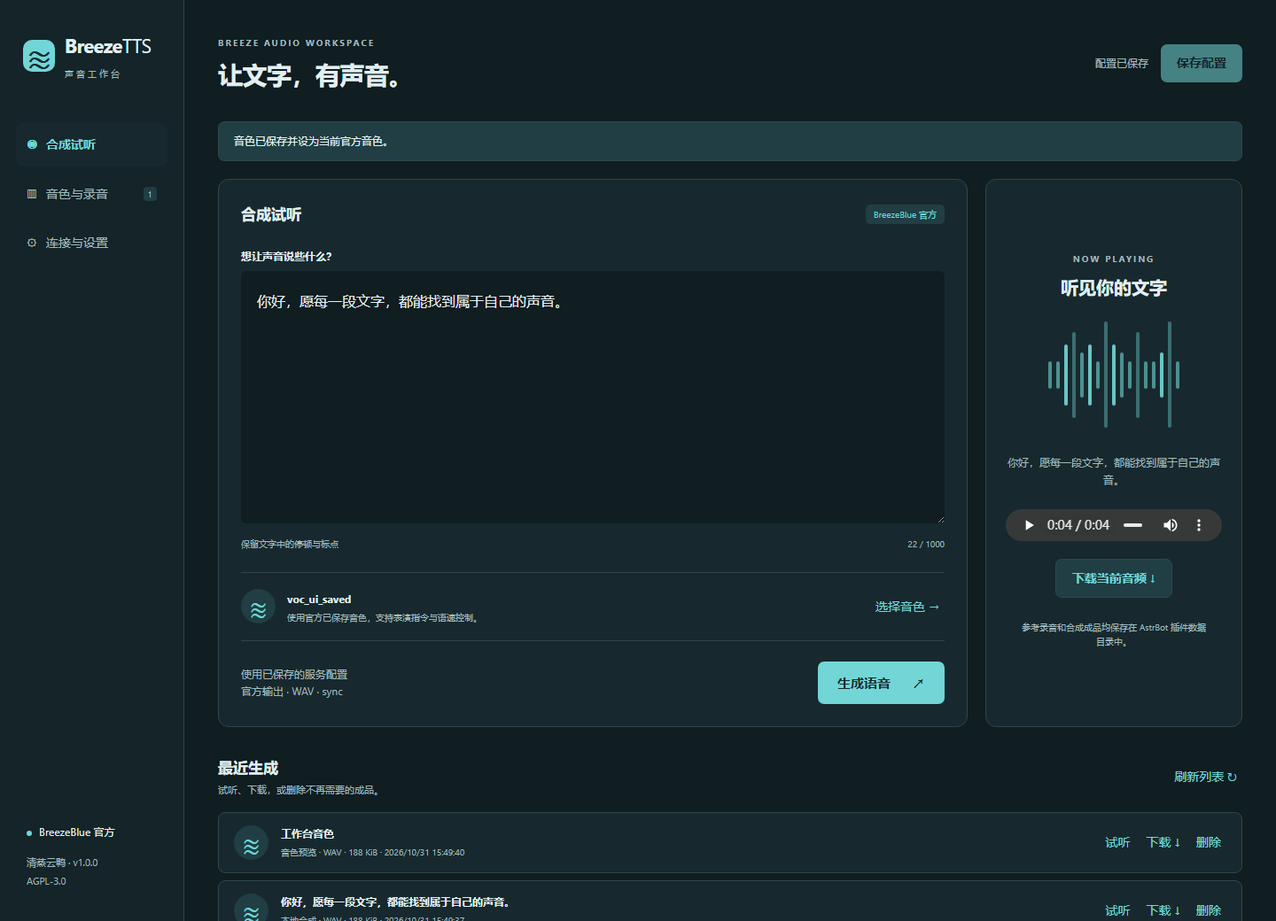
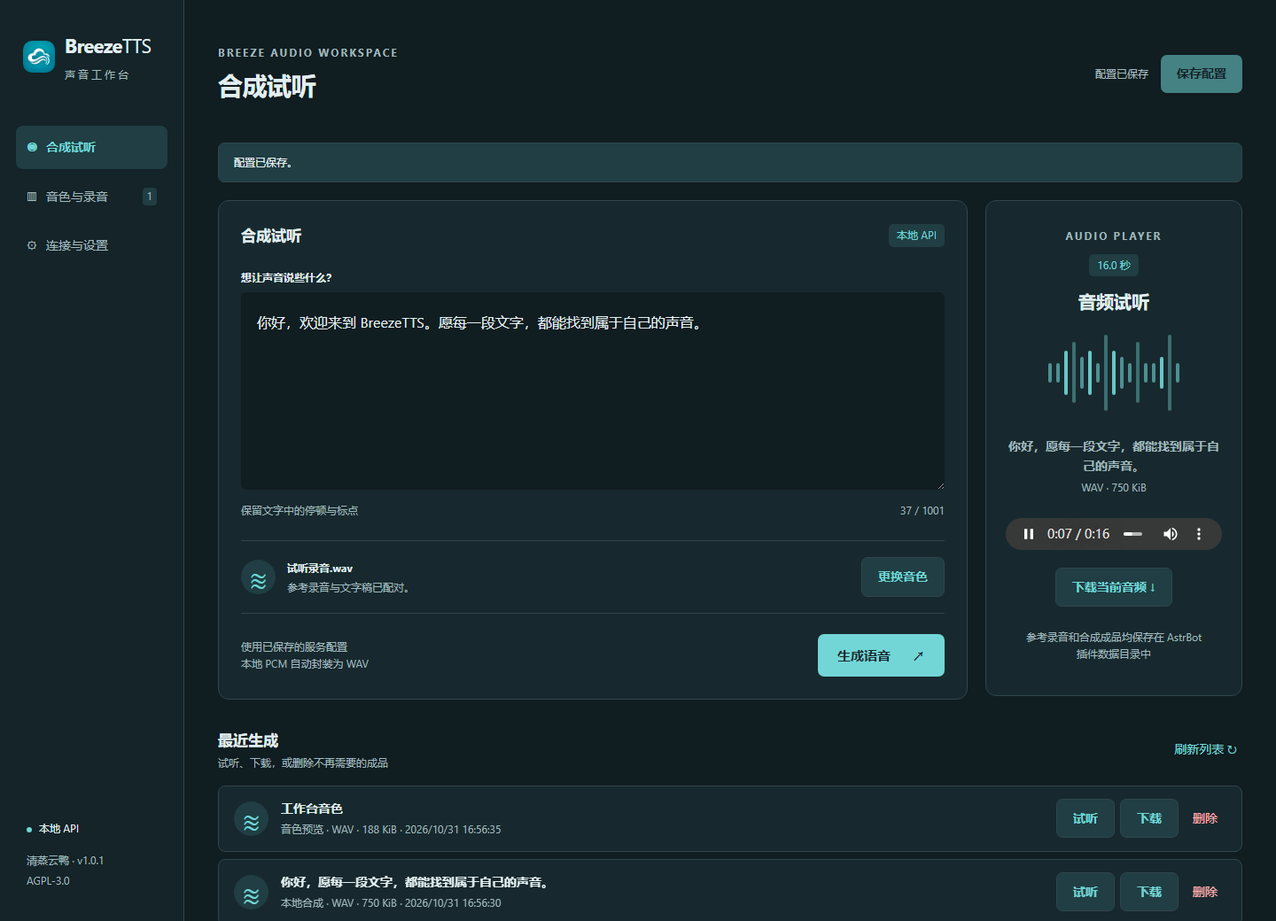
docs: simplify setup and refresh workbench usage guides

diff --git a/README.md b/README.md
@@ -1,6 +1,8 @@
+<img src="logo.png" alt="BreezeTTS" width="88" height="88">
+
 # BreezeTTS for AstrBot
 
-支持 **BreezeBlue 官方 API** 和 **本地 Breeze TTS API** 的 AstrBot 插件。内置独立的音频工作台，可上传参考录音、编辑文字稿、管理音色、生成试听和下载成品。
+为 AstrBot 提供 BreezeBlue 官方与本地语音合成，配备音色管理和音频试听工作台
 
 作者：清蒸云鸭
 
@@ -8,124 +10,106 @@
 
 ![BreezeTTS 工作台](docs/images/studio-desktop.png)
 
-## 能力
+## 插件功能
 
-| 功能 | 本地 API | BreezeBlue 官方 API |
-| --- | --- | --- |
-| 鉴权 | 无鉴权 / Bearer API Key | Bearer API Key |
-| 语音合成 | 表单 / multipart，PCM 自动封装 WAV | JSON，支持同步、流式接收和后台任务 |
-| 音色复刻 | 参考录音 + 准确文字稿 | 查询个人 / 公共音色，参考录音克隆 |
-| 声音设计 | 描述声音，直接生成语音 | 生成音色预览，试听后保存到账号 |
-| 声音控制 | instruction、cfg_scale、seed | 表演指令、指导强度、语速、音量、语言、相似度增强 |
-| 音频文件 | 上传、试听、下载、删除 | 上传参考音频，下载预览及合成成品 |
+- **本地语音合成**：参考音色复刻、文字声音设计、普通朗读，支持 CFG、随机种子和语气指令
+- **官方语音合成**：选择账号或公共音色，调整模型、语言、语速、音量和表演指令
+- **官方音色创建**：上传录音克隆声音，或通过文字设计音色；生成预览、试听，再保存到账号
+- **音频管理**：上传参考录音、编辑文字稿、选择当前音色，试听、下载和删除音频
+- **聊天语音**：通过聊天命令、LLM 语音工具或自动回复发送语音消息
+- **PC 与手机工作台**：自适应布局、明暗主题、胶囊开关和播放器状态提示
 
-工作台支持明暗主题和手机布局，通过 AstrBot 的受限 iframe bridge 通信，无需额外端口、外部字体、CDN 或前端构建步骤。文件操作使用 Dashboard 身份鉴权。
+## 安装与打开
 
-## 安装
-
-要求 **AstrBot >= 4.29.3**、Python >= 3.10。插件使用该版本的 `astrbot.api.web` 和可视化视图接口，不支持缺少这些接口的旧版本。
-
-在 AstrBot WebUI 的插件管理中，选择从 GitHub 仓库安装：
+使用 AstrBot 4.29.3 或更新版本，在插件管理中通过仓库地址安装：
 
 ```text
 https://github.com/WhiteCloudOL/astrbot_plugin_breezetts
 ```
 
-也可以将仓库克隆到 `data/plugins/astrbot_plugin_breezetts` 后重载插件。AstrBot 会安装 `requirements.txt` 中的 `aiohttp` 和 `soundfile`。本插件不需要安装模型、PyTorch 或另一个 TTS 服务进程。
+安装后打开 **插件 → BreezeTTS → BreezeTTS 工作台**。工作台包含“合成试听”“音色与录音”“连接与设置”三个入口
 
-打开 **插件 → BreezeTTS 详情 → BreezeTTS 工作台**。原有的 AstrBot 标准“插件配置”入口仍可编辑相同设置；新增的工作台把文件和音色操作集中在一个入口中。
+## 配置本地 API
 
-## 配置本地服务
+1. 在“连接与设置”选择 **本地 API**
+2. 填写服务地址，例如 `http://127.0.0.1:7860` 或 `http://127.0.0.1:7861`
+3. 按服务设置填写 API Key：有值时自动携带 Bearer 鉴权，留空时使用直接连接
+4. 点击 **保存并检查连接**，确认连接成功
+5. 选择合成模式并配置声音
 
-1. 打开“连接与设置”，当前服务选“本地 API”。
-2. 无鉴权部署通常填写 `http://127.0.0.1:7860`，API Key 留空。鉴权部署通常填写 `http://127.0.0.1:7861`，填写服务端的密钥本身，不加 `Bearer `。
-3. 点击“保存并检查连接”。检查会调用 `/health`，并携带同一份可选鉴权头。
-4. 使用音色复刻时，前往“音色与录音”上传参考录音，填写与录音完全一致的文字稿，然后点击“设为本地音色”。
-5. 返回“合成试听”，输入文字并生成。也可在设置中选“声音设计”，填写声音描述；“普通朗读”允许不传参考录音和描述。
+| 合成模式 | 配置方法 |
+| --- | --- |
+| 参考音色复刻 | 在“音色与录音”上传录音、填写完整准确的文字稿，再点击“设为当前音色” |
+| 声音设计 | 在连接设置中填写声音描述，例如“声音清晰、语气温柔的年轻女性” |
+| 普通朗读 | 选择模式后即可输入文字合成 |
 
-支持根地址、`/v1` 或完整 `/v1/audio/speech` 地址，并保留反向代理路径前缀。Docker 中的 `127.0.0.1` 指向容器自身，请使用容器能够访问的主机地址。
+CFG 建议从 `1` 开始，使用声音或语气描述时可尝试 `4`。随机种子用于复现声音效果
 
-本地接口的 `ref_audio`、`ref_text` 成对发送；没有参考录音的模式不会误传文字稿。普通朗读和纯音色复刻建议 CFG=1，带指令可尝试 CFG=4。本地接口没有独立语速倍率，可通过声音描述调整朗读节奏。
+服务地址支持根地址、`/v1` 或完整 `/v1/audio/speech` 路径。容器部署时，填写容器能够访问的主机地址。本地返回的 PCM 会自动封装为可播放和下载的 WAV
 
-返回的 `audio/pcm` 按 `X-Sample-Rate` 和 `X-Sample-Format` 校验，在完整接收后封装为 16-bit、单声道 WAV，支持跨采样边界的网络分块。
+### 管理参考音色
 
-## 配置官方服务
+本地模式的音色页集中管理参考录音和文字稿：
 
-1. 当前服务选择“BreezeBlue 官方 API”，默认地址为 `https://api.breeze.blue/v1`。
-2. 填写官方开发者 API Key，点击“保存并检查连接”。检查只读取模型列表，不发起付费合成。
-3. 在“音色与录音”查询音色，可筛选全部、个人或公共目录，支持搜索和继续加载分页。点击“使用此音色”，或在设置中直接填写 `voice_id`。
-4. 模型 ID 留空由官方选择，也可从连接检查得到的模型列表中选择。语言可留空自动识别，或填写 `zh`、`en`、`ja` 等代码。
-5. 根据需要调整语速、音量、表演指令和交付方式，再到合成页试听。
+1. 点击 **上传录音**，选择 WAV、MP3、FLAC 或 OGG 文件
+2. 在弹出的编辑框中填写录音名称及完整文字稿
+3. 点击 **设为当前音色**，完成选择
+4. 使用卡片上的 **试听、下载、编辑信息** 管理录音
 
-官方账号默认单次文本上限为 1000 字，获准提高额度的账号可在插件设置中提高至 2000 字。插件不会自动截断、拆分或重试付费请求。
+上传上限为 20 MiB、时长 0.1–120 秒，最多双声道；录音会统一转换为单声道 WAV
 
-“流式接收”会接收官方流式音频，在完整落盘后播放和发送；不代表边生成边播放。后台交付会提交任务、校验任务 ID，并在同一服务地址下轮询和下载音频。不会跟随上游返回的任意下载 URL，也不会跨重定向发送密钥。
+## 配置 BreezeBlue 官方 API
 
-默认输出 WAV，另支持官方文档列出的 MP3、FLAC、PCM、AAC、Opus 及采样率 / 码率变体。PCM 自动转为 WAV。浏览器或聊天平台不支持某些编码时，可选择 WAV / MP3 或下载原文件播放。
+1. 在“连接与设置”选择 **BreezeBlue 官方 API**
+2. 服务地址填写 `https://api.breeze.blue/v1`，输入官方开发者 API Key
+3. 点击 **保存并检查连接**，获取可用模型列表
+4. 打开“音色与录音”，查询个人或公共音色，点击 **使用此音色**；也可在设置中填写已有的音色 ID
+5. 按需选择模型、语言、输出格式及声音参数
 
-### 克隆和设计官方音色
+| 参数 | 说明 |
+| --- | --- |
+| 模型 ID | 留空由官方自动选择，也可从模型列表选择 |
+| 语言代码 | 留空自动识别，或填写 `zh`、`en`、`ja` 等代码 |
+| 表演指令 | 描述朗读情绪、语气与节奏 |
+| 语速 / 音量 | 调整语速倍率和音量倍率 |
+| 交付方式 | 同步、流式接收、后台任务；音频完整接收后进入播放器 |
+| 输出格式 | WAV、MP3、FLAC、PCM、AAC、Opus 及官方采样率 / 码率变体；PCM 自动封装为 WAV |
 
-在音色页底部选择“参考录音克隆”或“文字设计音色”，填写名称和语言。克隆使用已上传的录音，转换后须至少 3 秒且不超过 5 MB；设计需要 3–500 字的声音描述和试听文字。
+### 创建官方音色
 
-点击“生成音色预览”后，可以先试听，再明确点击“保存到官方账号”。保存成功后自动填入官方音色 ID。需要官方验证的克隆会显示预览 ID，必须先到官方控制台完成验证，再查询账号音色。生成和保存会调用官方服务，按官方计费规则消耗额度。
+官方模式的音色页集中展示账号目录和音色创建表单：
+
+- **参考录音克隆**：选择已有录音或点击“上传克隆录音”，填写名称和语言；录音至少 3 秒，转换后最大 5 MB
+- **文字设计音色**：填写音色名称、语言、声音描述及试听文字
+
+点击 **生成音色预览** 后先试听，再点击 **保存到官方账号**。保存成功后即设为当前官方音色。需要验证的音色会显示预览 ID，可前往官方控制台完成验证
+
+## 合成、试听与下载
+
+在“合成试听”输入文字，点击 **生成语音**。完成后右侧播放器显示当前音频及播放时长；手机视图中播放器位于输入区下方
+
+“最近生成”列出已保存的成品和预览，支持试听、下载和删除。重新打开工作台时会载入最近一条成品，点击播放器即可播放。切换音色时，点击输入区中的 **更换音色**
 
 ## 聊天中使用
 
 ```text
-/breezetts 你好，欢迎使用 BreezeTTS。
-/btts Hello world, keep the spaces.
-/语音合成 今天也要开心。
+/breezetts 你好，欢迎使用 BreezeTTS
+/btts Hello world
+/语音合成 今天也要开心
 ```
 
-命令沿用 AstrBot 的唤醒前缀和命令权限管理；插件默认允许使用命令的会话调用当前已配置的服务。
+在“聊天与运行”中可通过胶囊开关调整：
 
-`breeze_tts` LLM 工具可在用户要求时发送语音，开关位于“聊天与运行”。同一事件通过工具发送语音后，不会再通过自动语音钩子重复合成。
+- **自动语音回复**：将已完成的 LLM 文字回复转换为语音；搭配关闭聊天流式输出使用
+- **保留回复文字**：语音与文字一起展示
+- **允许 LLM 语音工具**：让模型在用户要求时调用 `breeze_tts` 发送语音
 
-“自动将 LLM 回复转为语音”默认关闭，仅处理已完成的非流式文字回复；请关闭 AstrBot 自带 TTS 和聊天流式输出后再开启。超长回复保持原文，合成失败保留原文；关闭“保留自动回复文字”也只会在合成成功后移除文字组件，其他组件保留。
+语音发送使用 AstrBot 的平台适配器，唤醒前缀与命令权限沿用 AstrBot 设置
 
-语音通过 AstrBot 标准 `Record` 组件发送，最终的文件上传、格式转换和消息呈现由所用平台适配器负责。远程协议端需要具有相应的文件上传能力；本项目没有对所有实际平台账号逐一投递测试。
+## 常用设置
 
-## 文件与密钥
+API Key 输入留空会保留已保存的密钥；输入新值后保存即可替换。点击输入框右侧的 **清空**，再保存配置即可移除密钥
 
-- 音频与索引保存在 `data/plugin_data/astrbot_plugin_breezetts/`，不写入插件源码目录。
-- 参考录音支持 WAV、MP3、FLAC、OGG，原始上传上限 20 MiB、时长 0.1–120 秒、最多双声道；解码后统一转为单声道 PCM16 WAV。下载的是规范化后的 WAV。
-- 最多保留 100 条参考录音，手动管理。成品与预览默认保留 50 条，可调整为 1–200；新成品生成后清理最旧文件。正在使用的默认参考录音不能直接删除。
-- 最多同时处理 2 个请求；同一本地服务的推理串行执行。最多接受 8 个合成请求 / WebUI 任务，防止无限排队。默认总超时为 600 秒。
-- WebUI 合成采用任务提交与轮询，避免长合成占用单次 bridge 请求。重载会取消正在运行的插件任务；已生成文件仍可从列表中找到。官方后台任务可能继续运行，超时后请先检查官方控制台再重新提交。
-- 密钥由 AstrBot 配置保存，工作台只返回“是否已配置”。密钥输入留空保留原值，替换时输入新值；删除必须勾选“清除”。AstrBot 标准配置本身仍由宿主管理，应妥善保护配置目录。
-- 请求失败不回显上游正文、密钥或完整异常 URL。不会自动重试合成、克隆或保存，避免重复计费。
+“单次文字上限”“合成总超时”和“成品保留数量”可在连接设置中调整。官方账号常用单次上限为 1000 字，支持更高额度的账号可将插件上限调整至 2000 字
 
-## 开发与测试
-
-```powershell
-uv venv --python 3.12
-uv pip install -r requirements-dev.txt
-uv run ruff format .
-uv run ruff check .
-uv run pytest -q
-```
-
-常规测试使用真实 HTTP 测试服务，覆盖本地可选鉴权、multipart 字段、PCM 封装、官方同步 / 流式 / 后台任务、音色分页、克隆与设计、超时取消、密钥脱敏和文件持久化。
-
-v1.0.0 在 Windows / Python 3.12 上通过 65 项测试，包含真实 AstrBot 4.29.3 加载、Chromium 工作台交互，以及启用鉴权的本地模型合成；Python 3.10 另通过 60 项协议与存储测试。官方服务已按公开文档通过协议测试，尚未使用真实官方账号密钥进行付费调用。Linux 由仓库 CI 持续验证。
-
-验证真实 AstrBot loader、重载、命令组件和鉴权 Web API：
-
-```powershell
-$env:PYTHONPATH = 'C:\path\to\AstrBot'
-# Use an environment containing AstrBot's dependencies.
-python -m pytest tests/test_host.py -q
-```
-
-浏览器交互测试另需 `playwright`、`uvicorn`、`httpx`、可用 Chromium 和 AstrBot 环境：
-
-```powershell
-$env:BREEZE_BROWSER_TEST = '1'
-python -m pytest tests/test_host.py -q
-```
-
-可选真实本地模型测试由 `tests/test_live.py` 提供，设置 `BREEZE_LIVE_LOCAL_URL` 与 `BREEZE_LIVE_LOCAL_KEY` 或 `BREEZE_LIVE_LOCAL_KEY_FILE`。可设置 `BREEZE_LIVE_REFERENCE` 与 `BREEZE_LIVE_REFERENCE_TEXT` 测试参考音色。凭据和音频只存于环境变量 / 临时测试目录，不进入仓库。
-
-详见[中文使用说明](docs/zh/usage.md)、[English guide](docs/en/usage.md) 和[更新记录](CHANGELOG.md)。
-
-接口依据：[AstrBot 插件视图指南](https://docs.astrbot.app/dev/star/guides/plugin-pages.html)、[BreezeBlue 官方接口](https://docs.breezeblue.ai/api-reference/introduction)、[官方鉴权](https://docs.breezeblue.ai/authentication)、[Breeze TTS 开源服务](https://github.com/breezeblue-ai/breeze-tts)。
+音频保存在 `data/plugin_data/astrbot_plugin_breezetts/`。参考录音最多 100 条；成品与预览默认保留最近 50 条，可调整为 1–200 条

diff --git a/docs/en/usage.md b/docs/en/usage.md
@@ -1,49 +1,35 @@
 # BreezeTTS workbench
 
-Author: 清蒸云鸭
+Open BreezeTTS from the AstrBot plugin details page. The interface is in Simplified Chinese and follows AstrBot's light or dark theme
 
-License: AGPL-3.0
-
-Requires AstrBot 4.29.3+ and Python 3.10+. Install the repository, reload the plugin, then open **Plugins → BreezeTTS details → BreezeTTS workbench**. The interface is currently in Simplified Chinese.
-
-| Workbench entry | Purpose |
+| Entry | Purpose |
 | --- | --- |
-| 合成试听 | Generate speech, play audio, download outputs, manage history |
-| 音色与录音 | Upload reference recordings, edit transcripts, select voices, create official previews |
-| 连接与设置 | Configure connections, credentials, generation parameters, and chat behavior |
+| 合成试听 | Enter text, select a voice, synthesize, play, and download audio |
+| 音色与录音 | Manage voices for the currently selected service |
+| 连接与设置 | Set the service URL and key, voice parameters, and chat behavior |
 
-The existing AstrBot plugin configuration entry remains available and edits the same settings. No existing AstrBot navigation has been renamed or moved.
-
-![Workbench](../images/studio-desktop.png)
+The standard AstrBot configuration entry and the workbench share the same settings. Voice management displays local references or official account voices according to the selected service
 
 ## Local API
 
-Use the service root, such as `http://127.0.0.1:7860` without authentication or `http://127.0.0.1:7861` with authentication. Enter only the key itself. A configured key is sent as `Authorization: Bearer <key>`, including on health checks; an empty key sends no Authorization header.
+Set the local service root, such as `http://127.0.0.1:7860` or `http://127.0.0.1:7861`. A populated API Key sends Bearer authentication; an empty key uses direct access
 
-For voice cloning, upload a recording, save its exact transcript, and select it as the default local voice. Supported uploads are WAV, MP3, FLAC, and OGG, up to 20 MiB and 120 seconds. Files are decoded and normalized to mono PCM16 WAV. Voice design uses an instruction instead of a reference; plain mode permits neither.
+Upload a recording, enter its exact transcript, and select it as the current voice. Each card has a prominent selection button, grouped playback/download/edit controls, and a separate delete action. Voice design uses the description configured in settings; plain mode provides ordinary narration
 
-Local multipart synthesis uses `text`, `instruction`, `cfg_scale`, `seed`, and the paired `ref_audio` / `ref_text` fields. The raw PCM response is validated and wrapped in a playable WAV container.
+![Local voice library](../images/voices-local-desktop.png)
 
-## BreezeBlue official API
+## Official API
 
-Use `https://api.breeze.blue/v1`, enter your developer key, and save the connection. Query the voice catalog and choose a voice, or enter an existing voice ID. Public catalog filtering uses `voice_type=default`.
+Select BreezeBlue official API and enter `https://api.breeze.blue/v1` and your developer key. Save and check the connection, then browse personal or public voices and choose one
 
-Supported delivery modes are synchronous, streamed reception, and background jobs. Streamed audio is played after the complete response is saved. Background jobs are polled and downloaded only from controlled paths on the configured service; arbitrary upstream download URLs and redirects are not followed.
+Clone creation has its own reference-upload control. Enter a voice name and language, generate a preview, audition it, and save it to your account. Voice design accepts a voice description and preview script
 
-Clone previews require a normalized reference of at least 3 seconds and no more than 5 MB. Voice design requires a description and preview text. Audition the generated preview, then explicitly save it to the official account. Verification-required clones must be completed in the official console.
+## Controls and playback
 
-## Chat integration
+Clear buttons sit beside key inputs. Click Clear and save to remove a key; enter a new value and save to replace it. Blank key inputs retain existing saved credentials
 
-Use `/breezetts text to speak`, `/btts`, or `/语音合成`. AstrBot command permissions and wake prefixes apply. The `breeze_tts` LLM tool is enabled by default and can be disabled in settings.
+Boolean settings use accessible capsule switches. The player sits beside the composer on PC and below it on mobile, showing the audio name, duration, loading state, retry action, and download button. Reopening the workbench loads the most recent generated output
 
-Automatic speech is off by default. Enable it for completed non-streaming LLM replies; disable AstrBot's built-in TTS and streaming chat output to avoid duplicate or unsupported output. Failed or oversized synthesis retains the original text. A successful tool-generated voice prevents a second automatic voice for the same event.
+![Mobile workbench](../images/studio-mobile.png)
 
-Audio uses AstrBot's standard `Record` component. Delivery and codec conversion depend on the platform adapter; live delivery has not been tested on every platform.
-
-## Storage and credentials
-
-Persistent files live in `data/plugin_data/astrbot_plugin_breezetts/`. Up to 100 references are retained until manually removed. Generated outputs and previews share a configurable retention limit, defaulting to 50. Reload cancels plugin-owned tasks while preserving saved files.
-
-The workbench returns only credential-presence flags. Blank credential inputs preserve existing keys; explicit checkboxes clear them. Keys are stored by AstrBot's configuration system. HTTP errors do not expose upstream response bodies or credentials. Generation and save requests are never retried automatically.
-
-See the [README](../../README.md) for development tests, optional real-model checks, and upstream references.
+See the [README](../../README.md) for installation, configuration fields, and chat commands

diff --git a/docs/zh/usage.md b/docs/zh/usage.md
@@ -1,44 +1,41 @@
-# 工作台使用说明
+# BreezeTTS 工作台
 
-作者：清蒸云鸭
+在 AstrBot 插件详情中打开 BreezeTTS 工作台，使用顶部或侧边导航进入合成试听、音色管理和连接设置
 
-许可证：AGPL-3.0
-
-需要 AstrBot 4.29.3 或更新版本。安装后进入“插件 → BreezeTTS 详情 → BreezeTTS 工作台”。标准“插件配置”入口继续可用，两者保存同一份配置。
-
-| 入口 | 用途 |
+| 入口 | 配置与操作 |
 | --- | --- |
-| 合成试听 | 输入文字、生成语音、播放 / 下载成品、管理历史 |
-| 音色与录音 | 上传录音、编辑准确文字稿、选择本地音色、查询官方音色、创建克隆 / 设计预览 |
-| 连接与设置 | 切换本地 / 官方服务、配置密钥与声音参数、控制聊天行为 |
+| 合成试听 | 输入文字、查看当前音色、生成语音、播放和下载成品 |
+| 音色与录音 | 根据当前服务展示本地参考音色，或官方账号音色及创建表单 |
+| 连接与设置 | 选择服务、设置 API Key、调整声音参数和聊天行为 |
 
-没有替换或移动 AstrBot 原有导航。新增的工作台负责文件和音色操作，原有“插件配置”仍用于编辑普通设置。
+原有“插件配置”入口与工作台共享同一份设置。音色页按当前服务展示对应内容，点击“切换服务”即可进入连接设置
 
-## 本地服务
+## 本地参考音色
 
-无鉴权预设是 `http://127.0.0.1:7860`；鉴权预设是 `http://127.0.0.1:7861`。后者需要填写服务端密钥本身。使用“保存并检查连接”确认 `/health` 可访问。
+填写本地服务地址，例如 `http://127.0.0.1:7860` 或 `http://127.0.0.1:7861`。API Key 有值时自动发送 Bearer 鉴权，留空时直接连接
 
-在音色页上传录音后，填写完整文字稿，点击“设为本地音色”。上传的 WAV / MP3 / FLAC / OGG 会规范化为单声道 WAV，可以下载和试听。声音设计模式只需在设置中填写声音描述；普通朗读允许省略描述。
+在音色页上传参考录音，填写完整准确的文字稿，再点击卡片上的“设为当前音色”。当前音色会有独立标识，卡片中的“试听、下载、编辑信息”成组展示，删除操作位于卡片底部
 
-## 官方服务
+![本地音色页](../images/voices-local-desktop.png)
 
-填写官方地址 `https://api.breeze.blue/v1` 和 API Key。保存后，在音色页查询公共或个人目录。公共目录实际传递 `voice_type=default`；“加载更多”保留服务返回的分页标记。
+## 官方账号音色
 
-创建音色时，先生成预览，再试听和保存。官方克隆要求转换后的录音不少于 3 秒且不超过 5 MB；如果响应要求验证，前往官方控制台操作。工作台不会未经点击就保存预览。
+将服务切换为 BreezeBlue 官方 API，填写 `https://api.breeze.blue/v1` 和 API Key，保存并检查连接。音色页可查询公共或个人音色，点击“使用此音色”完成选择
 
-## 手机与主题
+创建克隆音色时，使用“上传克隆录音”选择录音，再填写名称和语言。声音设计使用文字描述与试听文本。生成预览后先试听，再保存到官方账号
 
-工作台跟随 AstrBot 的亮暗主题，在窄屏中导航移到顶部，设置区和试听区自动堆叠。
+![官方音色手机页](../images/voices-official-mobile.png)
 
-![手机布局](../images/studio-mobile.png)
+## 密钥与开关
 
-## 常见问题
+API Key 输入框右侧提供“清空”按钮，点击后保存配置即可移除。输入新密钥后保存可替换，输入留空会保留已保存的密钥
 
-- **401**：核对服务模式与 API Key。无鉴权服务可清除密钥；鉴权服务的 `/health` 也需要密钥。
-- **无法连接**：先确认服务启动。容器里的 `127.0.0.1` 是容器，不是宿主机。
-- **参考音色无法合成**：确认录音已上传、文字稿已保存、默认音色已选择。
-- **浏览器无法播放**：将官方输出格式改为 WAV / MP3，或下载音频用本地播放器打开。
-- **任务超时**：超时包含排队和音频读取，可在设置中提高；官方后台任务可能仍运行，请先查官方控制台。
-- **自动语音没有触发**：关闭聊天流式输出，确认自动语音开关已开启且回复未超出字数限制。
+自动语音、保留文字、LLM 语音工具和声音相关布尔选项使用胶囊开关，可通过鼠标、触摸或键盘操作
 
-更多参数与测试方法见[项目 README](../../README.md)。
+## 播放与手机布局
+
+PC 中播放器位于合成区右侧，手机中位于输入区下方。播放器展示音频名称、时长和当前状态，支持载入重试和下载
+
+![手机合成页](../images/studio-mobile.png)
+
+完整功能、配置参数和聊天用法见[README](../../README.md)

diff --git a/CHANGELOG.md b/CHANGELOG.md
@@ -1,5 +1,14 @@
 # Changelog
 
+## v1.0.1 — 2026-10-31
+
+- Fix audio playback through the AstrBot bridge and restore the latest generated audio on reopening.
+- Separate local reference voices from official voice catalogs and preview forms.
+- Group voice-card controls, emphasize voice selection, and add capsule switches and inline key-clear buttons.
+- Improve responsive layouts, playback recovery, configuration-save consistency, and accessibility.
+- Harden audio validation, storage rollback, lifecycle handling, input boundaries, and secret-safe error logging.
+- Add an original BreezeTTS icon and simplify the README around features, configuration, and usage.
+
 ## v1.0.0 — 2026-10-31
 
 - Add local Breeze multipart synthesis with optional Bearer authentication and PCM-to-WAV conversion.
